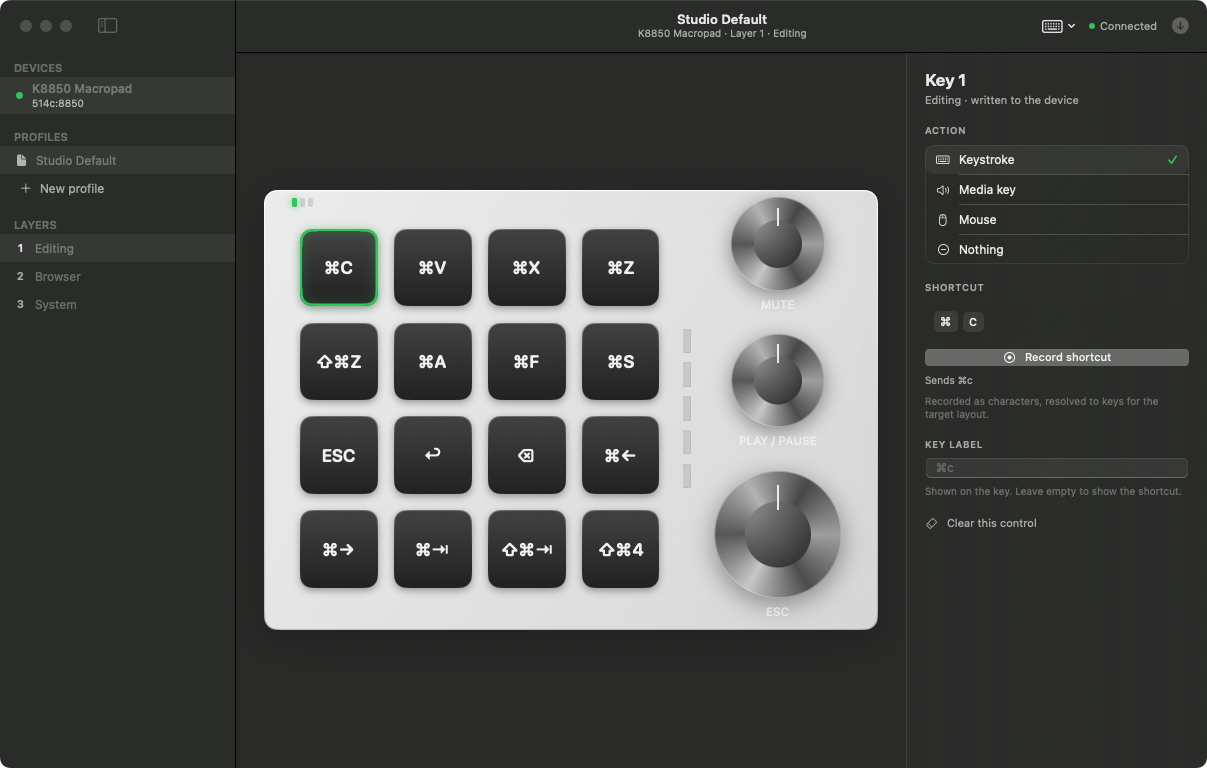
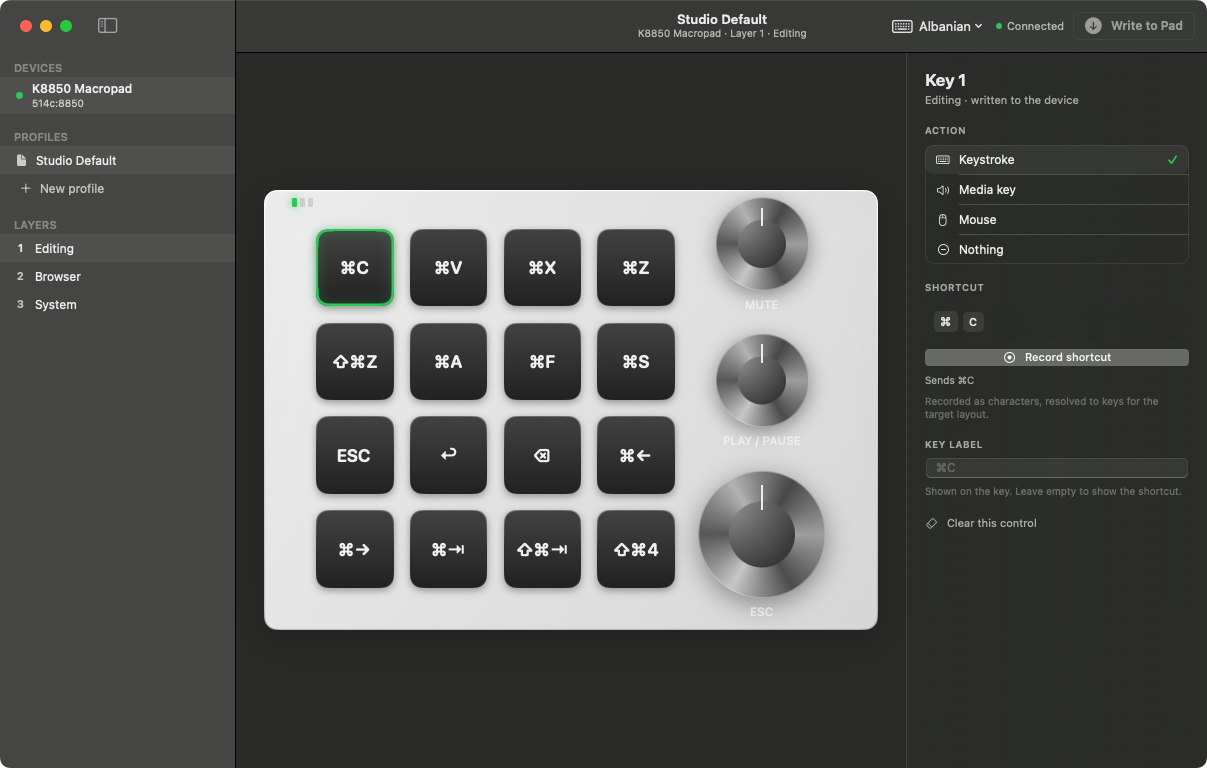
Fix media record encoding, drop indicator strip, clearer write button
- Media binds now use the verified record shape: one 3-byte entry
  (delay_hi, delay_lo, code) with the low byte of the consumer usage. The
  previous form wrote count=2 with a zero second entry, which this firmware
  does not expect and explains media keys misbehaving.
- Removed the five-bar strip from the pad drawing (the toolbar already shows
  write progress).
- Key faces and the 'Sends' line now render characters uppercase.
- Write to Pad is larger, tinted and always shows its title.
- Layout menu shows its name again instead of collapsing to an icon.
- Wheel marked unverified in the inspector pending evidence.
- Examples/media-test.json: one media key per button for reporting which work.

diff --git a/Sources/Views.swift b/Sources/Views.swift
@@ -250,6 +250,7 @@ struct HeaderActions: View {
                 .font(.system(size: 11))
         }
         .menuStyle(.borderlessButton)
+        .labelStyle(.titleAndIcon)
         .fixedSize()
         .help("Keyboard layout of the Mac the pad will be used on")
         .sheet(isPresented: $showLayoutChooser) {
@@ -457,8 +458,14 @@ struct WriteButton: View {
         default:
             Button { app.writeToPad() } label: {
                 Label("Write to Pad", systemImage: "arrow.down.circle.fill")
+                    .font(.system(size: 12, weight: .semibold))
+                    .padding(.horizontal, 6)
+                    .padding(.vertical, 2)
             }
             .buttonStyle(.borderedProminent)
+            .controlSize(.large)
+            .labelStyle(.titleAndIcon)
+            .tint(SidebarView.green)
             .disabled(app.connected == nil)
             .help(app.connected == nil ? "Connect the macropad with its USB cable" : "Write all three layers")
         }
@@ -485,14 +492,6 @@ struct CanvasView: View {
 struct PadPlateView: View {
     @EnvironmentObject var app: AppState
 
-    /// 0...1 while writing, nil otherwise, so the indicator strip means something.
-    var writeProgress: Double? {
-        if case .writing(let done, let total) = app.writer.phase, total > 0 {
-            return Double(done) / Double(total)
-        }
-        return nil
-    }
-
     var body: some View {
         GeometryReader { geo in
             let pad = min(geo.size.width, geo.size.height * 1.42)
@@ -500,7 +499,6 @@ struct PadPlateView: View {
                 plate(pad)
                 HStack(alignment: .center, spacing: pad * 0.038) {
                     keyGrid(pad)
-                    statusStrip(pad)
                     knobColumn(pad)
                 }
                 .frame(width: pad * 0.88)
@@ -596,23 +594,6 @@ struct PadPlateView: View {
                 .foregroundStyle(.white.opacity(0.85))
                 .help(action.display)
         }
-    }
-
-    /// Dim at rest, fills top-to-bottom while writing.
-    func statusStrip(_ pad: CGFloat) -> some View {
-        let h = pad * 0.26
-        let p = writeProgress
-        return VStack(spacing: h * 0.06) {
-            ForEach(0..<5, id: \.self) { i in
-                let lit = (p.map { Double(i) < ceil($0 * 5.0) }) ?? false
-                RoundedRectangle(cornerRadius: 1.5, style: .continuous)
-                    .fill(lit ? SidebarView.green : Color(white: 0.70).opacity(0.5))
-                    .overlay(RoundedRectangle(cornerRadius: 1.5, style: .continuous)
-                        .strokeBorder(.black.opacity(0.12), lineWidth: 0.5))
-            }
-        }
-        .frame(width: h * 0.05, height: h)
-        .help(p == nil ? "Write progress indicator" : "Writing…")
     }
 
     func layerLEDs(_ pad: CGFloat) -> some View {

diff --git a/Sources/Driver.swift b/Sources/Driver.swift
@@ -264,8 +264,11 @@ struct CH57xK8850Driver: DeviceDriver {
 
         case .media:
             guard let mk = MediaKey(rawValue: action.mediaKey) else { throw DriverError.nothingToWrite }
-            msg += [0x02, 0x00, 0x02, 0x00, 0x00,
-                    UInt8(mk.code & 0xFF), 0x00, 0x00, UInt8(mk.code >> 8)]
+            // Verified record format: one 3-byte entry (delay_hi, delay_lo BE,
+            // code) with the code being the LOW byte of the consumer usage.
+            // The old form sent count=2 with a zero second entry, which is not
+            // what this firmware expects.
+            msg += [0x02, 0x00, 0x01, 0x00, 0x00, UInt8(mk.code & 0xFF)]
 
         case .mouse:
             var mouse = [UInt8](repeating: 0, count: 17)

diff --git a/Sources/Inspector.swift b/Sources/Inspector.swift
@@ -250,6 +250,10 @@ struct InspectorView: View {
                     }
                     .controlSize(.small)
                 }
+                Text("Wheel is not verified on this firmware yet — tell me what it does.")
+                    .font(.system(size: 9.5))
+                    .foregroundStyle(.orange)
+                    .fixedSize(horizontal: false, vertical: true)
             } else {
                 Picker("", selection: Binding(
                     get: { action.mouseButton },

diff --git a/Sources/Model.swift b/Sources/Model.swift
@@ -117,7 +117,7 @@ struct Action: Codable, Hashable {
             let resolver = LayoutContext.resolver
             let keys = tokens.map { t -> String in
                 switch t.kind {
-                case .character: return shift ? t.value.uppercased() : t.value
+                case .character: return t.value.uppercased()
                 case .usage:     return resolver.label(for: t.usageValue ?? 0, shift: shift)
                 }
             }.joined(separator: " ")
